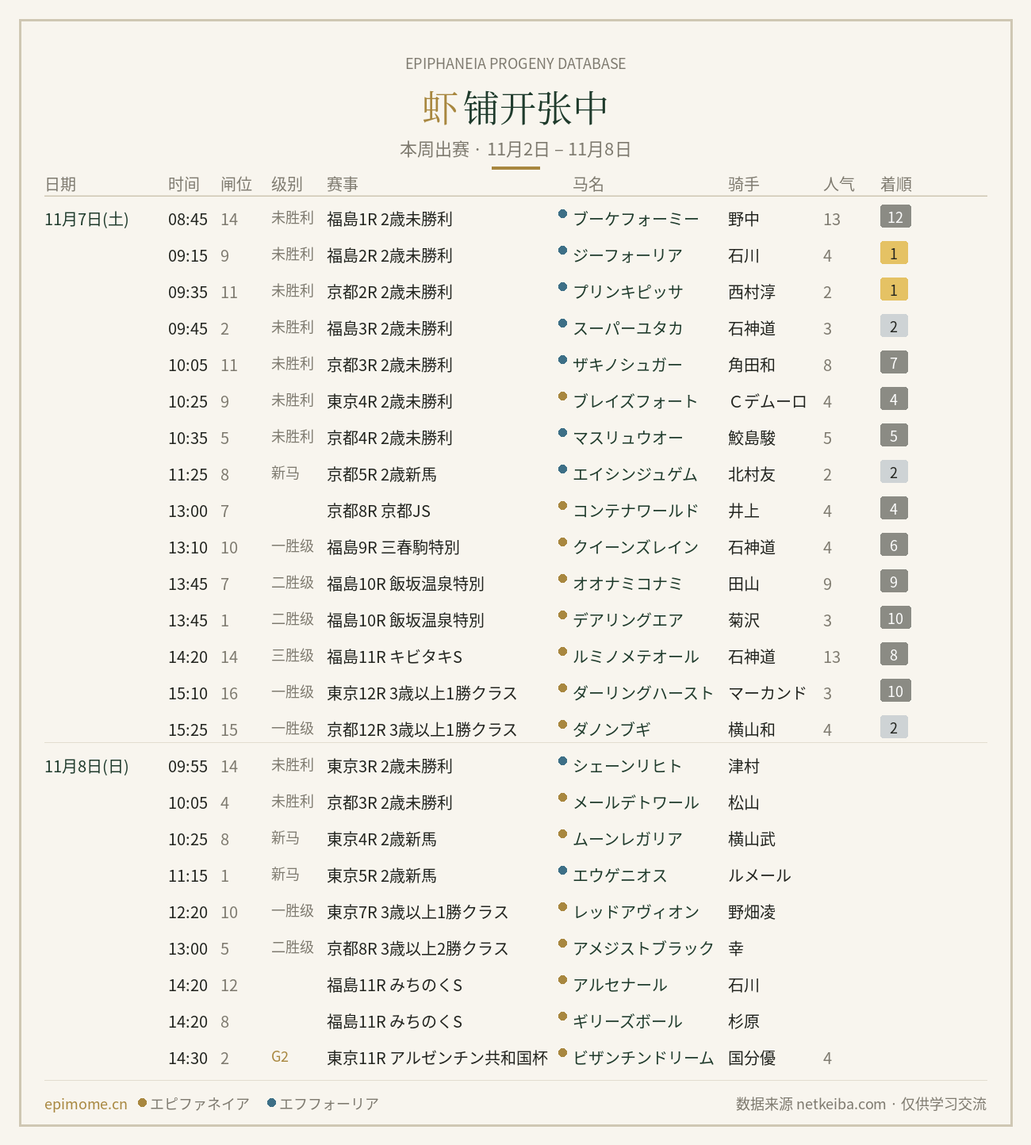
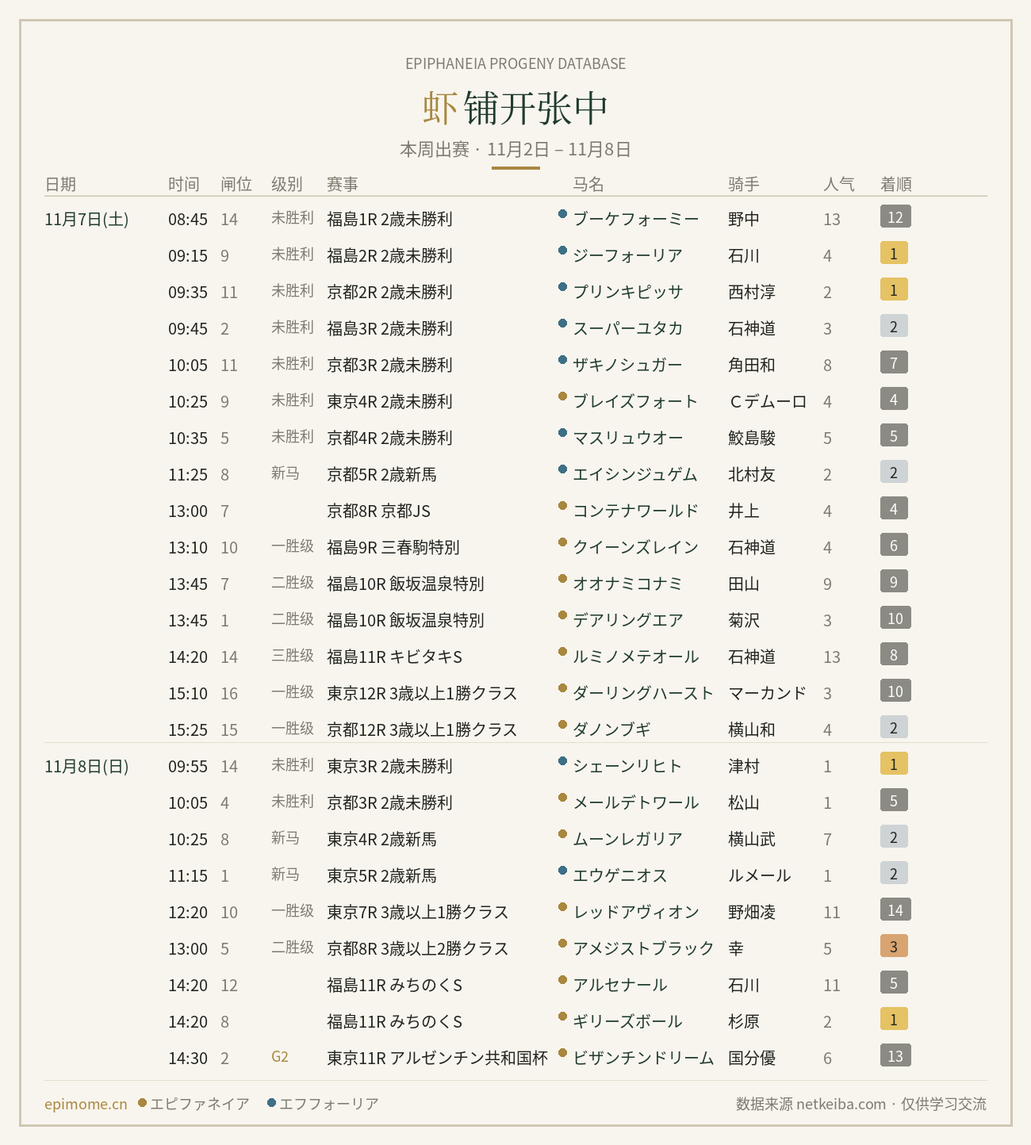
auto: 更新本周出马

Changed region(s): [[0.8308, 0.6544, 0.8923, 0.9349]]

diff --git a/thisweek.js b/thisweek.js
@@ -1,2 +1,2 @@
 // 本文件由 scrape_and_build.py 自动生成
-const 本周出马 = [{"date": "10月26日", "time": "19:40", "rid": "202655102612", "race": "佐賀12R SAGAリベFEVER14", "cls": "", "status": "結果確定", "name": "ハードロックスター", "id": "2022103590", "jockey": "山下裕貴", "fav": "", "order": "9", "num": "14", "sire": "エピファネイア", "region": "地方"}, {"date": "10月27日", "time": "14:15", "rid": "202648102706", "race": "名古屋6R C20組", "cls": "", "status": "出馬表", "name": "ロマンス", "id": "2023102234", "jockey": "小笠原羚", "fav": "3番人気", "order": "", "num": "9", "sire": "エピファネイア", "region": "地方"}, {"date": "10月27日", "time": "15:20", "rid": "202635102709", "race": "盛岡9R C1二組", "cls": "", "status": "出馬表", "name": "サウンドノバ", "id": "2021103250", "jockey": "塚本涼人", "fav": "6番人気", "order": "", "num": "4", "sire": "エピファネイア", "region": "地方"}, {"date": "10月27日", "time": "15:55", "rid": "202635102710", "race": "盛岡10R シェアト賞", "cls": "", "status": "結果確定", "name": "ファーザーアウェイ", "id": "2023104371", "jockey": "菅原辰徳", "fav": "", "order": "11", "num": "11", "sire": "エピファネイア", "region": "地方"}, {"date": "10月28日", "time": "10:10", "rid": "202650102802", "race": "園田2R C3一", "cls": "", "status": "出馬表", "name": "エザルターレ", "id": "2021106162", "jockey": "永井孝典", "fav": "", "order": "", "num": "8", "sire": "エピファネイア", "region": "地方"}, {"date": "10月28日", "time": "17:40", "rid": "202630102809", "race": "門別9R カシワ特別", "cls": "", "status": "出馬表", "name": "フロンテアブライト", "id": "2020106799", "jockey": "宮内勇樹", "fav": "", "order": "", "num": "6", "sire": "エピファネイア", "region": "地方"}, {"date": "10月29日", "time": "17:10", "rid": "202630102908", "race": "門別8R マタタビ特別", "cls": "", "status": "結果確定", "name": "フォーティンブラス", "id": "2023103776", "jockey": "落合玄太", "fav": "", "order": "2", "num": "6", "sire": "エピファネイア", "region": "地方"}, {"date": "10月31日(土)", "time": "09:20", "rid": "202605041002", "race": "東京2R 2歳未勝利", "cls": "未胜利", "status": "結果確定", "name": "ダンツトリノ", "id": "2024105504", "jockey": "長浜", "fav": "8", "order": "7", "num": "5", "sire": "エフフォーリア", "region": "中央"}, {"date": "10月31日(土)", "time": "12:10", "rid": "202605041007", "race": "東京7R 3歳以上1勝クラス", "cls": "一胜级", "status": "結果確定", "name": "ミッキーマーメイド", "id": "2023105002", "jockey": "津村", "fav": "6", "order": "11", "num": "8", "sire": "エピファネイア", "region": "中央"}, {"date": "10月31日", "time": "17:05", "rid": "202655103107", "race": "佐賀7R C2ー3組", "cls": "", "status": "結果確定", "name": "モスコビウム", "id": "2021103200", "jockey": "長谷川蓮", "fav": "", "order": "9", "num": "11", "sire": "エピファネイア", "region": "地方"}, {"date": "10月31日", "time": "19:50", "rid": "202654103112", "race": "高知12R ファイナルレース", "cls": "", "status": "結果確定", "name": "ウインリベラーレ", "id": "2021106207", "jockey": "石本純也", "fav": "", "order": "3", "num": "11", "sire": "エピファネイア", "region": "地方"}, {"date": "11月1日(日)", "time": "09:00", "rid": "202605041101", "race": "東京1R 2歳未勝利", "cls": "未胜利", "status": "結果確定", "name": "インサイドエッジ", "id": "2024107186", "jockey": "ルメール", "fav": "1", "order": "1", "num": "1", "sire": "エピファネイア", "region": "中央"}, {"date": "11月1日(日)", "time": "09:30", "rid": "202605041102", "race": "東京2R 2歳未勝利", "cls": "未胜利", "status": "結果確定", "name": "スピカテソーロ", "id": "2024101273", "jockey": "佐々木", "fav": "5", "order": "13", "num": "16", "sire": "エピファネイア", "region": "中央"}, {"date": "11月1日(日)", "time": "09:45", "rid": "202608041103", "race": "京都3R 2歳未勝利", "cls": "未胜利", "status": "結果確定", "name": "エトワールハマー", "id": "2024100737", "jockey": "武豊", "fav": "1", "order": "1", "num": "8", "sire": "エフフォーリア", "region": "中央"}, {"date": "11月1日(日)", "time": "09:45", "rid": "202608041103", "race": "京都3R 2歳未勝利", "cls": "未胜利", "status": "結果確定", "name": "カフジポポー", "id": "2024104468", "jockey": "田口", "fav": "10", "order": "11", "num": "4", "sire": "エフフォーリア", "region": "中央"}, {"date": "11月1日(日)", "time": "10:00", "rid": "202605041103", "race": "東京3R 2歳未勝利", "cls": "未胜利", "status": "結果確定", "name": "ハートノート", "id": "2024106226", "jockey": "Ｃデムーロ", "fav": "1", "order": "1", "num": "9", "sire": "エフフォーリア", "region": "中央"}, {"date": "11月1日(日)", "time": "10:15", "rid": "202608041104", "race": "京都4R 3歳以上障害未勝利", "cls": "未胜利", "status": "結果確定", "name": "ジュリアスローズ", "id": "2021103506", "jockey": "大江圭", "fav": "10", "order": "10", "num": "7", "sire": "エピファネイア", "region": "中央"}, {"date": "11月1日(日)", "time": "10:30", "rid": "202605041104", "race": "東京4R 2歳新馬", "cls": "新马", "status": "結果確定", "name": "フォルミナンテ", "id": "2024100060", "jockey": "遠藤", "fav": "9", "order": "12", "num": "9", "sire": "エフフォーリア", "region": "中央"}, {"date": "11月1日(日)", "time": "11:05", "rid": "202608041105", "race": "京都5R 2歳新馬", "cls": "新马", "status": "結果確定", "name": "カールイメル", "id": "2024102524", "jockey": "池添", "fav": "9", "order": "8", "num": "16", "sire": "エフフォーリア", "region": "中央"}, {"date": "11月1日(日)", "time": "11:50", "rid": "202605041106", "race": "東京6R 3歳以上1勝クラス", "cls": "一胜级", "status": "結果確定", "name": "ゴールドシーン", "id": "2020103727", "jockey": "岩田康", "fav": "12", "order": "12", "num": "7", "sire": "エピファネイア", "region": "中央"}, {"date": "11月1日", "time": "12:00", "rid": "202635110103", "race": "盛岡3R C2十一組", "cls": "", "status": "結果確定", "name": "グロー", "id": "2019106683", "jockey": "山本聡紀", "fav": "", "order": "5", "num": "9", "sire": "エピファネイア", "region": "地方"}, {"date": "11月1日(日)", "time": "12:05", "rid": "202608041107", "race": "京都7R 3歳以上1勝クラス", "cls": "一胜级", "status": "結果確定", "name": "マルモア", "id": "2021105245", "jockey": "今村", "fav": "13", "order": "13", "num": "8", "sire": "エピファネイア", "region": "中央"}, {"date": "11月1日(日)", "time": "12:35", "rid": "202608041108", "race": "京都8R 3歳以上1勝クラス", "cls": "一胜级", "status": "結果確定", "name": "オープンザパンドラ", "id": "2023105573", "jockey": "斎藤", "fav": "10", "order": "5", "num": "3", "sire": "エピファネイア", "region": "中央"}, {"date": "11月1日(日)", "time": "12:35", "rid": "202608041108", "race": "京都8R 3歳以上1勝クラス", "cls": "一胜级", "status": "結果確定", "name": "マイコンプリート", "id": "2023107155", "jockey": "西塚", "fav": "1", "order": "2", "num": "10", "sire": "エピファネイア", "region": "中央"}, {"date": "11月1日", "time": "12:40", "rid": "202635110104", "race": "盛岡4R C2十組", "cls": "", "status": "結果確定", "name": "トゥルパーニ", "id": "2023103600", "jockey": "菅原辰徳", "fav": "", "order": "4", "num": "5", "sire": "エピファネイア", "region": "地方"}, {"date": "11月1日(日)", "time": "12:50", "rid": "202605041108", "race": "東京8R 本栖湖特別", "cls": "二胜级", "status": "結果確定", "name": "ミッキーファルコン", "id": "2023107259", "jockey": "浜中", "fav": "1", "order": "2", "num": "4", "sire": "エピファネイア", "region": "中央"}, {"date": "11月1日(日)", "time": "13:25", "rid": "202605041109", "race": "東京9R 紅葉S", "cls": "三胜级", "status": "結果確定", "name": "ウフドゥウフ", "id": "2022105257", "jockey": "田辺", "fav": "4", "order": "2", "num": "14", "sire": "エピファネイア", "region": "中央"}, {"date": "11月1日(日)", "time": "13:25", "rid": "202605041109", "race": "東京9R 紅葉S", "cls": "三胜级", "status": "結果確定", "name": "ミッキーソルジャー", "id": "2022105520", "jockey": "横山典", "fav": "1", "order": "1", "num": "1", "sire": "エピファネイア", "region": "中央"}, {"date": "11月1日(日)", "time": "13:45", "rid": "202608041110", "race": "京都10R 古都S", "cls": "三胜级", "status": "結果確定", "name": "ウイナーズナイン", "id": "2023102820", "jockey": "田山", "fav": "2", "order": "4", "num": "7", "sire": "エピファネイア", "region": "中央"}, {"date": "11月1日(日)", "time": "14:40", "rid": "202605041111", "race": "東京11R 天皇賞(秋)", "cls": "G1", "status": "結果確定", "name": "ダノンデサイル", "id": "2021105143", "jockey": "戸崎圭", "fav": "4", "order": "1", "num": "17", "sire": "エピファネイア", "region": "中央"}, {"date": "11月1日(日)", "time": "14:40", "rid": "202605041111", "race": "東京11R 天皇賞(秋)", "cls": "G1", "status": "結果確定", "name": "ジョバンニ", "id": "2022103995", "jockey": "松山", "fav": "9", "order": "12", "num": "16", "sire": "エピファネイア", "region": "中央"}, {"date": "11月1日", "time": "16:05", "rid": "202654110105", "race": "高知5R 花みょうが特別", "cls": "", "status": "結果確定", "name": "スカイブルー", "id": "2022100136", "jockey": "上田将司", "fav": "", "order": "8", "num": "1", "sire": "エピファネイア", "region": "地方"}, {"date": "11月1日", "time": "19:40", "rid": "202655110112", "race": "佐賀12R SAGAリベFEVER14", "cls": "", "status": "結果確定", "name": "アサガクル", "id": "2022106600", "jockey": "山田義貴", "fav": "", "order": "4", "num": "8", "sire": "エピファネイア", "region": "地方"}, {"date": "11月5日", "time": "14:15", "rid": "202643110502", "race": "船橋2R C3三", "cls": "", "status": "結果確定", "name": "シーギリア", "id": "2020101554", "jockey": "所蛍", "fav": "", "order": "4", "num": "11", "sire": "エピファネイア", "region": "地方"}, {"date": "11月5日", "time": "15:40", "rid": "202650110512", "race": "園田12R C2", "cls": "", "status": "結果確定", "name": "ヤマトフェイス", "id": "2021105013", "jockey": "大山真吾", "fav": "", "order": "4", "num": "3", "sire": "エピファネイア", "region": "地方"}, {"date": "11月7日(土)", "time": "08:45", "rid": "202603030101", "race": "福島1R 2歳未勝利", "cls": "未胜利", "status": "結果確定", "name": "ブーケフォーミー", "id": "2024101990", "jockey": "野中", "fav": "13", "order": "12", "num": "14", "sire": "エフフォーリア", "region": "中央"}, {"date": "11月7日(土)", "time": "09:15", "rid": "202603030102", "race": "福島2R 2歳未勝利", "cls": "未胜利", "status": "結果確定", "name": "ジーフォーリア", "id": "2024107398", "jockey": "石川", "fav": "4", "order": "1", "num": "9", "sire": "エフフォーリア", "region": "中央"}, {"date": "11月7日(土)", "time": "09:35", "rid": "202608050102", "race": "京都2R 2歳未勝利", "cls": "未胜利", "status": "結果確定", "name": "プリンキピッサ", "id": "2024106888", "jockey": "西村淳", "fav": "2", "order": "1", "num": "11", "sire": "エフフォーリア", "region": "中央"}, {"date": "11月7日(土)", "time": "09:45", "rid": "202603030103", "race": "福島3R 2歳未勝利", "cls": "未胜利", "status": "結果確定", "name": "スーパーユタカ", "id": "2024107390", "jockey": "石神道", "fav": "3", "order": "2", "num": "2", "sire": "エフフォーリア", "region": "中央"}, {"date": "11月7日(土)", "time": "10:05", "rid": "202608050103", "race": "京都3R 2歳未勝利", "cls": "未胜利", "status": "結果確定", "name": "ザキノシュガー", "id": "2024103519", "jockey": "角田和", "fav": "8", "order": "7", "num": "11", "sire": "エフフォーリア", "region": "中央"}, {"date": "11月7日(土)", "time": "10:25", "rid": "202605050104", "race": "東京4R 2歳未勝利", "cls": "未胜利", "status": "結果確定", "name": "ブレイズフォート", "id": "2024106576", "jockey": "Ｃデムーロ", "fav": "4", "order": "4", "num": "9", "sire": "エピファネイア", "region": "中央"}, {"date": "11月7日(土)", "time": "10:35", "rid": "202608050104", "race": "京都4R 2歳未勝利", "cls": "未胜利", "status": "結果確定", "name": "マスリュウオー", "id": "2024105248", "jockey": "鮫島駿", "fav": "5", "order": "5", "num": "5", "sire": "エフフォーリア", "region": "中央"}, {"date": "11月7日(土)", "time": "11:25", "rid": "202608050105", "race": "京都5R 2歳新馬", "cls": "新马", "status": "結果確定", "name": "エイシンジュゲム", "id": "2024101594", "jockey": "北村友", "fav": "2", "order": "2", "num": "8", "sire": "エフフォーリア", "region": "中央"}, {"date": "11月7日(土)", "time": "13:00", "rid": "202608050108", "race": "京都8R 京都JS", "cls": "", "status": "結果確定", "name": "コンテナワールド", "id": "2021104924", "jockey": "井上", "fav": "4", "order": "4", "num": "7", "sire": "エピファネイア", "region": "中央"}, {"date": "11月7日(土)", "time": "13:10", "rid": "202603030109", "race": "福島9R 三春駒特別", "cls": "一胜级", "status": "結果確定", "name": "クイーンズレイン", "id": "2023103686", "jockey": "石神道", "fav": "4", "order": "6", "num": "10", "sire": "エピファネイア", "region": "中央"}, {"date": "11月7日(土)", "time": "13:45", "rid": "202603030110", "race": "福島10R 飯坂温泉特別", "cls": "二胜级", "status": "結果確定", "name": "オオナミコナミ", "id": "2021107173", "jockey": "田山", "fav": "9", "order": "9", "num": "7", "sire": "エピファネイア", "region": "中央"}, {"date": "11月7日(土)", "time": "13:45", "rid": "202603030110", "race": "福島10R 飯坂温泉特別", "cls": "二胜级", "status": "結果確定", "name": "デアリングエア", "id": "2022101896", "jockey": "菊沢", "fav": "3", "order": "10", "num": "1", "sire": "エピファネイア", "region": "中央"}, {"date": "11月7日(土)", "time": "14:20", "rid": "202603030111", "race": "福島11R キビタキS", "cls": "三胜级", "status": "結果確定", "name": "ルミノメテオール", "id": "2020104332", "jockey": "石神道", "fav": "13", "order": "8", "num": "14", "sire": "エピファネイア", "region": "中央"}, {"date": "11月7日(土)", "time": "15:10", "rid": "202605050112", "race": "東京12R 3歳以上1勝クラス", "cls": "一胜级", "status": "結果確定", "name": "ダーリングハースト", "id": "2023107179", "jockey": "マーカンド", "fav": "3", "order": "10", "num": "16", "sire": "エピファネイア", "region": "中央"}, {"date": "11月7日(土)", "time": "15:25", "rid": "202608050112", "race": "京都12R 3歳以上1勝クラス", "cls": "一胜级", "status": "結果確定", "name": "ダノンブギ", "id": "2022105281", "jockey": "横山和", "fav": "4", "order": "2", "num": "15", "sire": "エピファネイア", "region": "中央"}, {"date": "11月7日", "time": "17:15", "rid": "202654110707", "race": "高知7R C3ー7", "cls": "", "status": "出馬表", "name": "エンドレスバンカー", "id": "2022102860", "jockey": "木村直輝", "fav": "7番人気", "order": "", "num": "4", "sire": "エピファネイア", "region": "地方"}, {"date": "11月7日", "time": "19:50", "rid": "202654110712", "race": "高知12R ファイナルレース", "cls": "", "status": "出馬表", "name": "ケイベエ", "id": "2023102803", "jockey": "上田将司", "fav": "8番人気", "order": "", "num": "12", "sire": "エピファネイア", "region": "地方"}, {"date": "11月8日(日)", "time": "09:55", "rid": "202605050203", "race": "東京3R 2歳未勝利", "cls": "未胜利", "status": "出馬表", "name": "シェーンリヒト", "id": "2024105874", "jockey": "津村", "fav": "", "order": "", "num": "14", "sire": "エフフォーリア", "region": "中央"}, {"date": "11月8日(日)", "time": "10:05", "rid": "202608050203", "race": "京都3R 2歳未勝利", "cls": "未胜利", "status": "出馬表", "name": "メールデトワール", "id": "2024102480", "jockey": "松山", "fav": "", "order": "", "num": "4", "sire": "エピファネイア", "region": "中央"}, {"date": "11月8日(日)", "time": "10:25", "rid": "202605050204", "race": "東京4R 2歳新馬", "cls": "新马", "status": "出馬表", "name": "ムーンレガリア", "id": "2024100465", "jockey": "横山武", "fav": "", "order": "", "num": "8", "sire": "エピファネイア", "region": "中央"}, {"date": "11月8日(日)", "time": "11:15", "rid": "202605050205", "race": "東京5R 2歳新馬", "cls": "新马", "status": "出馬表", "name": "エウゲニオス", "id": "2024106757", "jockey": "ルメール", "fav": "", "order": "", "num": "1", "sire": "エフフォーリア", "region": "中央"}, {"date": "11月8日", "time": "11:55", "rid": "202635110803", "race": "盛岡3R C2十組", "cls": "", "status": "出馬表", "name": "グロー", "id": "2019106683", "jockey": "山本聡紀", "fav": "", "order": "", "num": "6", "sire": "エピファネイア", "region": "地方"}, {"date": "11月8日", "time": "11:55", "rid": "202635110803", "race": "盛岡3R C2十組", "cls": "", "status": "出馬表", "name": "トゥルパーニ", "id": "2023103600", "jockey": "菅原辰徳", "fav": "", "order": "", "num": "7", "sire": "エピファネイア", "region": "地方"}, {"date": "11月8日(日)", "time": "12:20", "rid": "202605050207", "race": "東京7R 3歳以上1勝クラス", "cls": "一胜级", "status": "出馬表", "name": "レッドアヴィオン", "id": "2023107333", "jockey": "野畑凌", "fav": "", "order": "", "num": "10", "sire": "エピファネイア", "region": "中央"}, {"date": "11月8日(日)", "time": "13:00", "rid": "202608050208", "race": "京都8R 3歳以上2勝クラス", "cls": "二胜级", "status": "出馬表", "name": "アメジストブラック", "id": "2019105051", "jockey": "幸", "fav": "", "order": "", "num": "5", "sire": "エピファネイア", "region": "中央"}, {"date": "11月8日(日)", "time": "14:20", "rid": "202603030211", "race": "福島11R みちのくS", "cls": "", "status": "出馬表", "name": "アルセナール", "id": "2021105548", "jockey": "石川", "fav": "", "order": "", "num": "12", "sire": "エピファネイア", "region": "中央"}, {"date": "11月8日(日)", "time": "14:20", "rid": "202603030211", "race": "福島11R みちのくS", "cls": "", "status": "出馬表", "name": "ギリーズボール", "id": "2023107187", "jockey": "杉原", "fav": "", "order": "", "num": "8", "sire": "エピファネイア", "region": "中央"}, {"date": "11月8日(日)", "time": "14:30", "rid": "202605050211", "race": "東京11R アルゼンチン共和国杯", "cls": "G2", "status": "出馬表", "name": "ビザンチンドリーム", "id": "2021105587", "jockey": "国分優", "fav": "4番人気", "order": "", "num": "2", "sire": "エピファネイア", "region": "中央"}, {"date": "11月8日", "time": "15:35", "rid": "202654110804", "race": "高知4R C3ー17", "cls": "", "status": "出馬表", "name": "トーセンブレンダ", "id": "2021104712", "jockey": "大澤誠志", "fav": "", "order": "", "num": "2", "sire": "エピファネイア", "region": "地方"}, {"date": "11月8日", "time": "17:40", "rid": "202655110807", "race": "佐賀7R SAGAリベンジャーズダッシュ2組", "cls": "", "status": "出馬表", "name": "ハードロックスター", "id": "2022103590", "jockey": "山下裕貴", "fav": "", "order": "", "num": "8", "sire": "エピファネイア", "region": "地方"}];
+const 本周出马 = [{"date": "10月26日", "time": "19:40", "rid": "202655102612", "race": "佐賀12R SAGAリベFEVER14", "cls": "", "status": "結果確定", "name": "ハードロックスター", "id": "2022103590", "jockey": "山下裕貴", "fav": "", "order": "9", "num": "14", "sire": "エピファネイア", "region": "地方"}, {"date": "10月27日", "time": "14:15", "rid": "202648102706", "race": "名古屋6R C20組", "cls": "", "status": "出馬表", "name": "ロマンス", "id": "2023102234", "jockey": "小笠原羚", "fav": "3番人気", "order": "", "num": "9", "sire": "エピファネイア", "region": "地方"}, {"date": "10月27日", "time": "15:20", "rid": "202635102709", "race": "盛岡9R C1二組", "cls": "", "status": "出馬表", "name": "サウンドノバ", "id": "2021103250", "jockey": "塚本涼人", "fav": "6番人気", "order": "", "num": "4", "sire": "エピファネイア", "region": "地方"}, {"date": "10月27日", "time": "15:55", "rid": "202635102710", "race": "盛岡10R シェアト賞", "cls": "", "status": "結果確定", "name": "ファーザーアウェイ", "id": "2023104371", "jockey": "菅原辰徳", "fav": "", "order": "11", "num": "11", "sire": "エピファネイア", "region": "地方"}, {"date": "10月28日", "time": "10:10", "rid": "202650102802", "race": "園田2R C3一", "cls": "", "status": "出馬表", "name": "エザルターレ", "id": "2021106162", "jockey": "永井孝典", "fav": "", "order": "", "num": "8", "sire": "エピファネイア", "region": "地方"}, {"date": "10月28日", "time": "17:40", "rid": "202630102809", "race": "門別9R カシワ特別", "cls": "", "status": "出馬表", "name": "フロンテアブライト", "id": "2020106799", "jockey": "宮内勇樹", "fav": "", "order": "", "num": "6", "sire": "エピファネイア", "region": "地方"}, {"date": "10月29日", "time": "17:10", "rid": "202630102908", "race": "門別8R マタタビ特別", "cls": "", "status": "結果確定", "name": "フォーティンブラス", "id": "2023103776", "jockey": "落合玄太", "fav": "", "order": "2", "num": "6", "sire": "エピファネイア", "region": "地方"}, {"date": "10月31日(土)", "time": "09:20", "rid": "202605041002", "race": "東京2R 2歳未勝利", "cls": "未胜利", "status": "結果確定", "name": "ダンツトリノ", "id": "2024105504", "jockey": "長浜", "fav": "8", "order": "7", "num": "5", "sire": "エフフォーリア", "region": "中央"}, {"date": "10月31日(土)", "time": "12:10", "rid": "202605041007", "race": "東京7R 3歳以上1勝クラス", "cls": "一胜级", "status": "結果確定", "name": "ミッキーマーメイド", "id": "2023105002", "jockey": "津村", "fav": "6", "order": "11", "num": "8", "sire": "エピファネイア", "region": "中央"}, {"date": "10月31日", "time": "17:05", "rid": "202655103107", "race": "佐賀7R C2ー3組", "cls": "", "status": "結果確定", "name": "モスコビウム", "id": "2021103200", "jockey": "長谷川蓮", "fav": "", "order": "9", "num": "11", "sire": "エピファネイア", "region": "地方"}, {"date": "10月31日", "time": "19:50", "rid": "202654103112", "race": "高知12R ファイナルレース", "cls": "", "status": "結果確定", "name": "ウインリベラーレ", "id": "2021106207", "jockey": "石本純也", "fav": "", "order": "3", "num": "11", "sire": "エピファネイア", "region": "地方"}, {"date": "11月1日(日)", "time": "09:00", "rid": "202605041101", "race": "東京1R 2歳未勝利", "cls": "未胜利", "status": "結果確定", "name": "インサイドエッジ", "id": "2024107186", "jockey": "ルメール", "fav": "1", "order": "1", "num": "1", "sire": "エピファネイア", "region": "中央"}, {"date": "11月1日(日)", "time": "09:30", "rid": "202605041102", "race": "東京2R 2歳未勝利", "cls": "未胜利", "status": "結果確定", "name": "スピカテソーロ", "id": "2024101273", "jockey": "佐々木", "fav": "5", "order": "13", "num": "16", "sire": "エピファネイア", "region": "中央"}, {"date": "11月1日(日)", "time": "09:45", "rid": "202608041103", "race": "京都3R 2歳未勝利", "cls": "未胜利", "status": "結果確定", "name": "エトワールハマー", "id": "2024100737", "jockey": "武豊", "fav": "1", "order": "1", "num": "8", "sire": "エフフォーリア", "region": "中央"}, {"date": "11月1日(日)", "time": "09:45", "rid": "202608041103", "race": "京都3R 2歳未勝利", "cls": "未胜利", "status": "結果確定", "name": "カフジポポー", "id": "2024104468", "jockey": "田口", "fav": "10", "order": "11", "num": "4", "sire": "エフフォーリア", "region": "中央"}, {"date": "11月1日(日)", "time": "10:00", "rid": "202605041103", "race": "東京3R 2歳未勝利", "cls": "未胜利", "status": "結果確定", "name": "ハートノート", "id": "2024106226", "jockey": "Ｃデムーロ", "fav": "1", "order": "1", "num": "9", "sire": "エフフォーリア", "region": "中央"}, {"date": "11月1日(日)", "time": "10:15", "rid": "202608041104", "race": "京都4R 3歳以上障害未勝利", "cls": "未胜利", "status": "結果確定", "name": "ジュリアスローズ", "id": "2021103506", "jockey": "大江圭", "fav": "10", "order": "10", "num": "7", "sire": "エピファネイア", "region": "中央"}, {"date": "11月1日(日)", "time": "10:30", "rid": "202605041104", "race": "東京4R 2歳新馬", "cls": "新马", "status": "結果確定", "name": "フォルミナンテ", "id": "2024100060", "jockey": "遠藤", "fav": "9", "order": "12", "num": "9", "sire": "エフフォーリア", "region": "中央"}, {"date": "11月1日(日)", "time": "11:05", "rid": "202608041105", "race": "京都5R 2歳新馬", "cls": "新马", "status": "結果確定", "name": "カールイメル", "id": "2024102524", "jockey": "池添", "fav": "9", "order": "8", "num": "16", "sire": "エフフォーリア", "region": "中央"}, {"date": "11月1日(日)", "time": "11:50", "rid": "202605041106", "race": "東京6R 3歳以上1勝クラス", "cls": "一胜级", "status": "結果確定", "name": "ゴールドシーン", "id": "2020103727", "jockey": "岩田康", "fav": "12", "order": "12", "num": "7", "sire": "エピファネイア", "region": "中央"}, {"date": "11月1日", "time": "12:00", "rid": "202635110103", "race": "盛岡3R C2十一組", "cls": "", "status": "結果確定", "name": "グロー", "id": "2019106683", "jockey": "山本聡紀", "fav": "", "order": "5", "num": "9", "sire": "エピファネイア", "region": "地方"}, {"date": "11月1日(日)", "time": "12:05", "rid": "202608041107", "race": "京都7R 3歳以上1勝クラス", "cls": "一胜级", "status": "結果確定", "name": "マルモア", "id": "2021105245", "jockey": "今村", "fav": "13", "order": "13", "num": "8", "sire": "エピファネイア", "region": "中央"}, {"date": "11月1日(日)", "time": "12:35", "rid": "202608041108", "race": "京都8R 3歳以上1勝クラス", "cls": "一胜级", "status": "結果確定", "name": "オープンザパンドラ", "id": "2023105573", "jockey": "斎藤", "fav": "10", "order": "5", "num": "3", "sire": "エピファネイア", "region": "中央"}, {"date": "11月1日(日)", "time": "12:35", "rid": "202608041108", "race": "京都8R 3歳以上1勝クラス", "cls": "一胜级", "status": "結果確定", "name": "マイコンプリート", "id": "2023107155", "jockey": "西塚", "fav": "1", "order": "2", "num": "10", "sire": "エピファネイア", "region": "中央"}, {"date": "11月1日", "time": "12:40", "rid": "202635110104", "race": "盛岡4R C2十組", "cls": "", "status": "結果確定", "name": "トゥルパーニ", "id": "2023103600", "jockey": "菅原辰徳", "fav": "", "order": "4", "num": "5", "sire": "エピファネイア", "region": "地方"}, {"date": "11月1日(日)", "time": "12:50", "rid": "202605041108", "race": "東京8R 本栖湖特別", "cls": "二胜级", "status": "結果確定", "name": "ミッキーファルコン", "id": "2023107259", "jockey": "浜中", "fav": "1", "order": "2", "num": "4", "sire": "エピファネイア", "region": "中央"}, {"date": "11月1日(日)", "time": "13:25", "rid": "202605041109", "race": "東京9R 紅葉S", "cls": "三胜级", "status": "結果確定", "name": "ウフドゥウフ", "id": "2022105257", "jockey": "田辺", "fav": "4", "order": "2", "num": "14", "sire": "エピファネイア", "region": "中央"}, {"date": "11月1日(日)", "time": "13:25", "rid": "202605041109", "race": "東京9R 紅葉S", "cls": "三胜级", "status": "結果確定", "name": "ミッキーソルジャー", "id": "2022105520", "jockey": "横山典", "fav": "1", "order": "1", "num": "1", "sire": "エピファネイア", "region": "中央"}, {"date": "11月1日(日)", "time": "13:45", "rid": "202608041110", "race": "京都10R 古都S", "cls": "三胜级", "status": "結果確定", "name": "ウイナーズナイン", "id": "2023102820", "jockey": "田山", "fav": "2", "order": "4", "num": "7", "sire": "エピファネイア", "region": "中央"}, {"date": "11月1日(日)", "time": "14:40", "rid": "202605041111", "race": "東京11R 天皇賞(秋)", "cls": "G1", "status": "結果確定", "name": "ダノンデサイル", "id": "2021105143", "jockey": "戸崎圭", "fav": "4", "order": "1", "num": "17", "sire": "エピファネイア", "region": "中央"}, {"date": "11月1日(日)", "time": "14:40", "rid": "202605041111", "race": "東京11R 天皇賞(秋)", "cls": "G1", "status": "結果確定", "name": "ジョバンニ", "id": "2022103995", "jockey": "松山", "fav": "9", "order": "12", "num": "16", "sire": "エピファネイア", "region": "中央"}, {"date": "11月1日", "time": "16:05", "rid": "202654110105", "race": "高知5R 花みょうが特別", "cls": "", "status": "結果確定", "name": "スカイブルー", "id": "2022100136", "jockey": "上田将司", "fav": "", "order": "8", "num": "1", "sire": "エピファネイア", "region": "地方"}, {"date": "11月1日", "time": "19:40", "rid": "202655110112", "race": "佐賀12R SAGAリベFEVER14", "cls": "", "status": "結果確定", "name": "アサガクル", "id": "2022106600", "jockey": "山田義貴", "fav": "", "order": "4", "num": "8", "sire": "エピファネイア", "region": "地方"}, {"date": "11月5日", "time": "14:15", "rid": "202643110502", "race": "船橋2R C3三", "cls": "", "status": "結果確定", "name": "シーギリア", "id": "2020101554", "jockey": "所蛍", "fav": "", "order": "4", "num": "11", "sire": "エピファネイア", "region": "地方"}, {"date": "11月5日", "time": "15:40", "rid": "202650110512", "race": "園田12R C2", "cls": "", "status": "結果確定", "name": "ヤマトフェイス", "id": "2021105013", "jockey": "大山真吾", "fav": "", "order": "4", "num": "3", "sire": "エピファネイア", "region": "地方"}, {"date": "11月7日(土)", "time": "08:45", "rid": "202603030101", "race": "福島1R 2歳未勝利", "cls": "未胜利", "status": "結果確定", "name": "ブーケフォーミー", "id": "2024101990", "jockey": "野中", "fav": "13", "order": "12", "num": "14", "sire": "エフフォーリア", "region": "中央"}, {"date": "11月7日(土)", "time": "09:15", "rid": "202603030102", "race": "福島2R 2歳未勝利", "cls": "未胜利", "status": "結果確定", "name": "ジーフォーリア", "id": "2024107398", "jockey": "石川", "fav": "4", "order": "1", "num": "9", "sire": "エフフォーリア", "region": "中央"}, {"date": "11月7日(土)", "time": "09:35", "rid": "202608050102", "race": "京都2R 2歳未勝利", "cls": "未胜利", "status": "結果確定", "name": "プリンキピッサ", "id": "2024106888", "jockey": "西村淳", "fav": "2", "order": "1", "num": "11", "sire": "エフフォーリア", "region": "中央"}, {"date": "11月7日(土)", "time": "09:45", "rid": "202603030103", "race": "福島3R 2歳未勝利", "cls": "未胜利", "status": "結果確定", "name": "スーパーユタカ", "id": "2024107390", "jockey": "石神道", "fav": "3", "order": "2", "num": "2", "sire": "エフフォーリア", "region": "中央"}, {"date": "11月7日(土)", "time": "10:05", "rid": "202608050103", "race": "京都3R 2歳未勝利", "cls": "未胜利", "status": "結果確定", "name": "ザキノシュガー", "id": "2024103519", "jockey": "角田和", "fav": "8", "order": "7", "num": "11", "sire": "エフフォーリア", "region": "中央"}, {"date": "11月7日(土)", "time": "10:25", "rid": "202605050104", "race": "東京4R 2歳未勝利", "cls": "未胜利", "status": "結果確定", "name": "ブレイズフォート", "id": "2024106576", "jockey": "Ｃデムーロ", "fav": "4", "order": "4", "num": "9", "sire": "エピファネイア", "region": "中央"}, {"date": "11月7日(土)", "time": "10:35", "rid": "202608050104", "race": "京都4R 2歳未勝利", "cls": "未胜利", "status": "結果確定", "name": "マスリュウオー", "id": "2024105248", "jockey": "鮫島駿", "fav": "5", "order": "5", "num": "5", "sire": "エフフォーリア", "region": "中央"}, {"date": "11月7日(土)", "time": "11:25", "rid": "202608050105", "race": "京都5R 2歳新馬", "cls": "新马", "status": "結果確定", "name": "エイシンジュゲム", "id": "2024101594", "jockey": "北村友", "fav": "2", "order": "2", "num": "8", "sire": "エフフォーリア", "region": "中央"}, {"date": "11月7日(土)", "time": "13:00", "rid": "202608050108", "race": "京都8R 京都JS", "cls": "", "status": "結果確定", "name": "コンテナワールド", "id": "2021104924", "jockey": "井上", "fav": "4", "order": "4", "num": "7", "sire": "エピファネイア", "region": "中央"}, {"date": "11月7日(土)", "time": "13:10", "rid": "202603030109", "race": "福島9R 三春駒特別", "cls": "一胜级", "status": "結果確定", "name": "クイーンズレイン", "id": "2023103686", "jockey": "石神道", "fav": "4", "order": "6", "num": "10", "sire": "エピファネイア", "region": "中央"}, {"date": "11月7日(土)", "time": "13:45", "rid": "202603030110", "race": "福島10R 飯坂温泉特別", "cls": "二胜级", "status": "結果確定", "name": "オオナミコナミ", "id": "2021107173", "jockey": "田山", "fav": "9", "order": "9", "num": "7", "sire": "エピファネイア", "region": "中央"}, {"date": "11月7日(土)", "time": "13:45", "rid": "202603030110", "race": "福島10R 飯坂温泉特別", "cls": "二胜级", "status": "結果確定", "name": "デアリングエア", "id": "2022101896", "jockey": "菊沢", "fav": "3", "order": "10", "num": "1", "sire": "エピファネイア", "region": "中央"}, {"date": "11月7日(土)", "time": "14:20", "rid": "202603030111", "race": "福島11R キビタキS", "cls": "三胜级", "status": "結果確定", "name": "ルミノメテオール", "id": "2020104332", "jockey": "石神道", "fav": "13", "order": "8", "num": "14", "sire": "エピファネイア", "region": "中央"}, {"date": "11月7日(土)", "time": "15:10", "rid": "202605050112", "race": "東京12R 3歳以上1勝クラス", "cls": "一胜级", "status": "結果確定", "name": "ダーリングハースト", "id": "2023107179", "jockey": "マーカンド", "fav": "3", "order": "10", "num": "16", "sire": "エピファネイア", "region": "中央"}, {"date": "11月7日(土)", "time": "15:25", "rid": "202608050112", "race": "京都12R 3歳以上1勝クラス", "cls": "一胜级", "status": "結果確定", "name": "ダノンブギ", "id": "2022105281", "jockey": "横山和", "fav": "4", "order": "2", "num": "15", "sire": "エピファネイア", "region": "中央"}, {"date": "11月7日", "time": "17:15", "rid": "202654110707", "race": "高知7R C3ー7", "cls": "", "status": "出馬表", "name": "エンドレスバンカー", "id": "2022102860", "jockey": "木村直輝", "fav": "7番人気", "order": "", "num": "4", "sire": "エピファネイア", "region": "地方"}, {"date": "11月7日", "time": "19:50", "rid": "202654110712", "race": "高知12R ファイナルレース", "cls": "", "status": "出馬表", "name": "ケイベエ", "id": "2023102803", "jockey": "上田将司", "fav": "8番人気", "order": "", "num": "12", "sire": "エピファネイア", "region": "地方"}, {"date": "11月8日(日)", "time": "09:55", "rid": "202605050203", "race": "東京3R 2歳未勝利", "cls": "未胜利", "status": "結果確定", "name": "シェーンリヒト", "id": "2024105874", "jockey": "津村", "fav": "1", "order": "1", "num": "14", "sire": "エフフォーリア", "region": "中央"}, {"date": "11月8日(日)", "time": "10:05", "rid": "202608050203", "race": "京都3R 2歳未勝利", "cls": "未胜利", "status": "結果確定", "name": "メールデトワール", "id": "2024102480", "jockey": "松山", "fav": "1", "order": "5", "num": "4", "sire": "エピファネイア", "region": "中央"}, {"date": "11月8日(日)", "time": "10:25", "rid": "202605050204", "race": "東京4R 2歳新馬", "cls": "新马", "status": "結果確定", "name": "ムーンレガリア", "id": "2024100465", "jockey": "横山武", "fav": "7", "order": "2", "num": "8", "sire": "エピファネイア", "region": "中央"}, {"date": "11月8日(日)", "time": "11:15", "rid": "202605050205", "race": "東京5R 2歳新馬", "cls": "新马", "status": "結果確定", "name": "エウゲニオス", "id": "2024106757", "jockey": "ルメール", "fav": "1", "order": "2", "num": "1", "sire": "エフフォーリア", "region": "中央"}, {"date": "11月8日", "time": "11:55", "rid": "202635110803", "race": "盛岡3R C2十組", "cls": "", "status": "結果確定", "name": "グロー", "id": "2019106683", "jockey": "山本聡紀", "fav": "", "order": "3", "num": "6", "sire": "エピファネイア", "region": "地方"}, {"date": "11月8日", "time": "11:55", "rid": "202635110803", "race": "盛岡3R C2十組", "cls": "", "status": "結果確定", "name": "トゥルパーニ", "id": "2023103600", "jockey": "菅原辰徳", "fav": "", "order": "2", "num": "7", "sire": "エピファネイア", "region": "地方"}, {"date": "11月8日(日)", "time": "12:20", "rid": "202605050207", "race": "東京7R 3歳以上1勝クラス", "cls": "一胜级", "status": "結果確定", "name": "レッドアヴィオン", "id": "2023107333", "jockey": "野畑凌", "fav": "11", "order": "14", "num": "10", "sire": "エピファネイア", "region": "中央"}, {"date": "11月8日(日)", "time": "13:00", "rid": "202608050208", "race": "京都8R 3歳以上2勝クラス", "cls": "二胜级", "status": "結果確定", "name": "アメジストブラック", "id": "2019105051", "jockey": "幸", "fav": "5", "order": "3", "num": "5", "sire": "エピファネイア", "region": "中央"}, {"date": "11月8日(日)", "time": "14:20", "rid": "202603030211", "race": "福島11R みちのくS", "cls": "", "status": "結果確定", "name": "アルセナール", "id": "2021105548", "jockey": "石川", "fav": "11", "order": "5", "num": "12", "sire": "エピファネイア", "region": "中央"}, {"date": "11月8日(日)", "time": "14:20", "rid": "202603030211", "race": "福島11R みちのくS", "cls": "", "status": "結果確定", "name": "ギリーズボール", "id": "2023107187", "jockey": "杉原", "fav": "2", "order": "1", "num": "8", "sire": "エピファネイア", "region": "中央"}, {"date": "11月8日(日)", "time": "14:30", "rid": "202605050211", "race": "東京11R アルゼンチン共和国杯", "cls": "G2", "status": "結果確定", "name": "ビザンチンドリーム", "id": "2021105587", "jockey": "国分優", "fav": "6", "order": "13", "num": "2", "sire": "エピファネイア", "region": "中央"}, {"date": "11月8日", "time": "15:35", "rid": "202654110804", "race": "高知4R C3ー17", "cls": "", "status": "結果確定", "name": "トーセンブレンダ", "id": "2021104712", "jockey": "大澤誠志", "fav": "", "order": "9", "num": "2", "sire": "エピファネイア", "region": "地方"}, {"date": "11月8日", "time": "17:40", "rid": "202655110807", "race": "佐賀7R SAGAリベンジャーズダッシュ2組", "cls": "", "status": "結果確定", "name": "ハードロックスター", "id": "2022103590", "jockey": "山下裕貴", "fav": "", "order": "11", "num": "8", "sire": "エピファネイア", "region": "地方"}, {"date": "11月9日", "time": "14:50", "rid": "202635110908", "race": "盛岡8R C1", "cls": "", "status": "出馬表", "name": "グランクリュ", "id": "2022101414", "jockey": "小林凌", "fav": "", "order": "", "num": "8", "sire": "エピファネイア", "region": "地方"}, {"date": "11月9日", "time": "15:40", "rid": "202648110908", "race": "名古屋8R C24組", "cls": "", "status": "出馬表", "name": "ロマンス", "id": "2023102234", "jockey": "小笠原羚", "fav": "", "order": "", "num": "7", "sire": "エピファネイア", "region": "地方"}, {"date": "11月9日", "time": "19:15", "rid": "202645110911", "race": "川崎11R かながわ消費者トラブル未然防止特別", "cls": "", "status": "出馬表", "name": "リチャードバローズ", "id": "2021103977", "jockey": "笹川翼", "fav": "", "order": "", "num": "2", "sire": "エピファネイア", "region": "地方"}, {"date": "11月10日", "time": "12:30", "rid": "202648111003", "race": "名古屋3R C21組", "cls": "", "status": "出馬表", "name": "ラヴズプレミアム", "id": "2023107292", "jockey": "望月洵輝", "fav": "", "order": "", "num": "9", "sire": "エピファネイア", "region": "地方"}, {"date": "11月10日", "time": "15:20", "rid": "202635111009", "race": "盛岡9R C1三組", "cls": "", "status": "出馬表", "name": "サウンドノバ", "id": "2021103250", "jockey": "塚本涼人", "fav": "", "order": "", "num": "2", "sire": "エピファネイア", "region": "地方"}, {"date": "11月10日", "time": "15:55", "rid": "202635111010", "race": "盛岡10R レックススタッド特別", "cls": "", "status": "出馬表", "name": "ファーザーアウェイ", "id": "2023104371", "jockey": "山本政聡", "fav": "", "order": "", "num": "7", "sire": "エピファネイア", "region": "地方"}, {"date": "11月10日", "time": "18:50", "rid": "202630111011", "race": "門別11R 北海道競馬記者クラブ特別", "cls": "", "status": "出馬表", "name": "フロンテアブライト", "id": "2020106799", "jockey": "宮内勇樹", "fav": "", "order": "", "num": "2", "sire": "エピファネイア", "region": "地方"}];

diff --git a/updates.js b/updates.js
@@ -1,3 +1,3 @@
 // 数据更新由脚本自动维护；功能更新请手动编辑
 const 功能更新 = [{"date": "2026-10-29", "text": "首页「最新动向」改为日志形式：保留每次改动记录，显示最近 10 条"}, {"date": "2026-10-29", "text": "新增「母父」名录：以エピファネイア为母父的马，表格自动切换为「母 / 父」两列"}, {"date": "2026-10-29", "text": "列表页改版：左侧马名书签（种马 / 生年 / 状态）+ 9 列主表，点行展开母父、生日与价格"}, {"date": "2026-10-29", "text": "筛选条件写入网址，可分享、收藏，刷新也不会丢"}, {"date": "2026-10-29", "text": "分页可以直接选择页码"}, {"date": "2026-10-29", "text": "表格横向滚动时，马名列固定在左侧"}, {"date": "2026-10-29", "text": "新增「按状态」筛选：現役 / 地方 / 退役・繁殖 / 退役 / 未登录"}, {"date": "2026-10-29", "text": "修复从详情页返回时跳到首页的问题，现在会回到上一页"}, {"date": "2026-10-28", "text": "新增「次走 / 近况」：在 Excel 里记一栏，同步到马详情页与首页「最新动向」"}, {"date": "2026-10-28", "text": "更新动向或数据后自动更换版本号，避免浏览器显示旧内容"}, {"date": "2026-10-27", "text": "修正两匹转籍地方的马被误标为「退役」"}, {"date": "2026-10-27", "text": "列表页：种马色点、页头统计可点击筛选、默认按赏金排序并标注、数字列右对齐"}, {"date": "2026-10-24", "text": "分享卡支持完整 5 代血统表与全部比赛履历，生成后可预览、下载"}, {"date": "2026-10-24", "text": "本周出赛自动合并旧数据，跑完的比赛不再从列表消失"}, {"date": "2026-10-24", "text": "出赛更新增加备份时段，降低漏更概率"}, {"date": "2026-10-23", "text": "新增店长专属页面：店长资料 + 店员（产驹）一览"}, {"date": "2026-10-23", "text": "本周出赛只显示本周，日期标注星期，新增闸位列"}, {"date": "2026-10-23", "text": "赛事级别细分为 G1 / G2 / G3"}, {"date": "2026-10-23", "text": "自动生成本周出赛表图片（含级别、闸位、名次）"}, {"date": "2026-10-23", "text": "列表「年龄」改为「生年」，现役马详情页显示年龄"}, {"date": "2026-10-23", "text": "新增「中文资讯」与 B 站视频栏目"}, {"date": "2026-10-23", "text": "马详情与店长页新增场地 / 距离适性统计"}, {"date": "2026-10-23", "text": "全站加入纸纹背景（纯 CSS，无额外加载）"}, {"date": "2026-10-22", "text": "首页改版：导航、通用搜索、今日寿星、信息更新"}, {"date": "2026-10-22", "text": "详情页比赛履历新增人气、体重、上がり、通過、着差、タイム"}, {"date": "2026-10-22", "text": "首屏数据由 7MB 拆分按需加载，访问速度明显提升"}, {"date": "2026-10-22", "text": "统一返回按钮样式，支持逐级返回"}, {"date": "2026-10-21", "text": "名次改为金 / 银 / 铜 / 灰色块"}, {"date": "2026-10-21", "text": "本周出赛新增开赛时间（北京时间）并按时间排序"}, {"date": "2026-10-20", "text": "网站上线 epimome.cn，收录 1454 匹产驹"}, {"date": "2026-10-20", "text": "支持搜索、筛选、血统表与比赛履历"}];
-const 数据更新 = [{"date": "2026-11-07", "text": "更新本周出赛（32匹）"}, {"date": "2026-11-06", "text": "更新本周出赛（28匹）"}, {"date": "2026-11-02", "text": "更新产驹数据（1454匹 · 母父223匹）"}, {"date": "2026-11-01", "text": "更新本周出赛（33匹）"}, {"date": "2026-10-31", "text": "更新本周出赛（33匹）"}, {"date": "2026-10-30", "text": "更新本周出赛（42匹）"}, {"date": "2026-10-27", "text": "更新产驹数据（1454匹）"}, {"date": "2026-10-27", "text": "更新本周出赛（36匹）"}, {"date": "2026-10-26", "text": "更新产驹数据（1454匹）"}, {"date": "2026-10-26", "text": "更新本周出赛（35匹）"}, {"date": "2026-10-26", "text": "更新本周出赛（26匹）"}, {"date": "2026-10-25", "text": "更新本周出赛（26匹）"}, {"date": "2026-10-25", "text": "更新本周出赛（23匹）"}, {"date": "2026-10-24", "text": "更新本周出赛（22匹）"}, {"date": "2026-10-24", "text": "更新本周出赛（25匹）"}, {"date": "2026-10-23", "text": "更新产驹数据（1454匹）"}, {"date": "2026-10-23", "text": "更新本周出赛（29匹）"}, {"date": "2026-10-22", "text": "更新本周出赛（28匹）"}, {"date": "2026-10-22", "text": "更新本周出赛（6匹）"}, {"date": "2026-10-22", "text": "更新产驹数据（1454匹）"}, {"date": "2026-10-22", "text": "更新本周出赛（39匹）"}, {"date": "2026-10-21", "text": "更新产驹数据（1454匹）"}, {"date": "2026-10-20", "text": "更新产驹数据（1454匹）"}];
+const 数据更新 = [{"date": "2026-11-08", "text": "更新本周出赛（32匹）"}, {"date": "2026-11-07", "text": "更新本周出赛（32匹）"}, {"date": "2026-11-06", "text": "更新本周出赛（28匹）"}, {"date": "2026-11-02", "text": "更新产驹数据（1454匹 · 母父223匹）"}, {"date": "2026-11-01", "text": "更新本周出赛（33匹）"}, {"date": "2026-10-31", "text": "更新本周出赛（33匹）"}, {"date": "2026-10-30", "text": "更新本周出赛（42匹）"}, {"date": "2026-10-27", "text": "更新产驹数据（1454匹）"}, {"date": "2026-10-27", "text": "更新本周出赛（36匹）"}, {"date": "2026-10-26", "text": "更新产驹数据（1454匹）"}, {"date": "2026-10-26", "text": "更新本周出赛（35匹）"}, {"date": "2026-10-26", "text": "更新本周出赛（26匹）"}, {"date": "2026-10-25", "text": "更新本周出赛（26匹）"}, {"date": "2026-10-25", "text": "更新本周出赛（23匹）"}, {"date": "2026-10-24", "text": "更新本周出赛（22匹）"}, {"date": "2026-10-24", "text": "更新本周出赛（25匹）"}, {"date": "2026-10-23", "text": "更新产驹数据（1454匹）"}, {"date": "2026-10-23", "text": "更新本周出赛（29匹）"}, {"date": "2026-10-22", "text": "更新本周出赛（28匹）"}, {"date": "2026-10-22", "text": "更新本周出赛（6匹）"}, {"date": "2026-10-22", "text": "更新产驹数据（1454匹）"}, {"date": "2026-10-22", "text": "更新本周出赛（39匹）"}, {"date": "2026-10-21", "text": "更新产驹数据（1454匹）"}, {"date": "2026-10-20", "text": "更新产驹数据（1454匹）"}];

diff --git a/index.html b/index.html
@@ -748,16 +748,16 @@
     </div>
   </div>
 
-<script src="data.js?v=2026110709"></script>
-<script src="bms.js?v=2026110709"></script>
-<script src="updates.js?v=2026110709"></script>
-<script src="thisweek.js?v=2026110709"></script>
-<script src="corrections.js?v=2026110709"></script>
-<script src="sire-info.js?v=2026110709"></script>
-<script src="news.js?v=2026110709"></script>
-<script src="videos.js?v=2026110709"></script>
-<script src="stats.js?v=2026110709"></script>
-<script src="moves.js?v=2026110709"></script>
+<script src="data.js?v=2026110816"></script>
+<script src="bms.js?v=2026110816"></script>
+<script src="updates.js?v=2026110816"></script>
+<script src="thisweek.js?v=2026110816"></script>
+<script src="corrections.js?v=2026110816"></script>
+<script src="sire-info.js?v=2026110816"></script>
+<script src="news.js?v=2026110816"></script>
+<script src="videos.js?v=2026110816"></script>
+<script src="stats.js?v=2026110816"></script>
+<script src="moves.js?v=2026110816"></script>
 <script>
   const data = 产驹数据;
   // 母父产驹：エピファネイア 作为母父（外祖父）的马，由抓取脚本生成 bms.js
